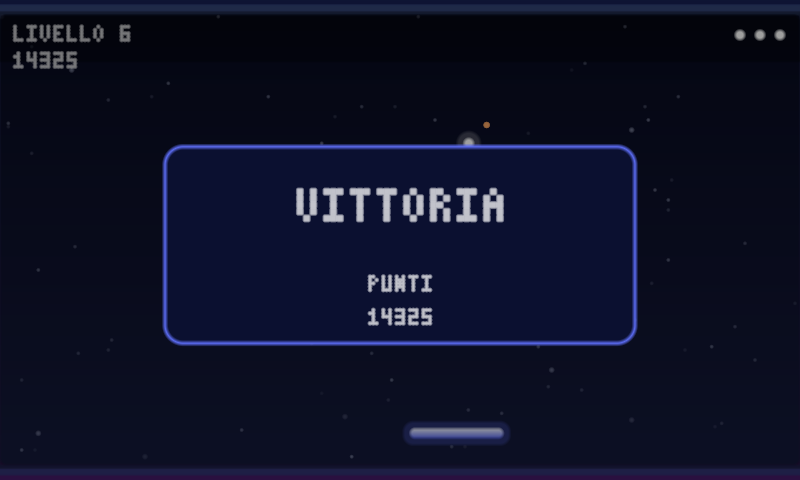
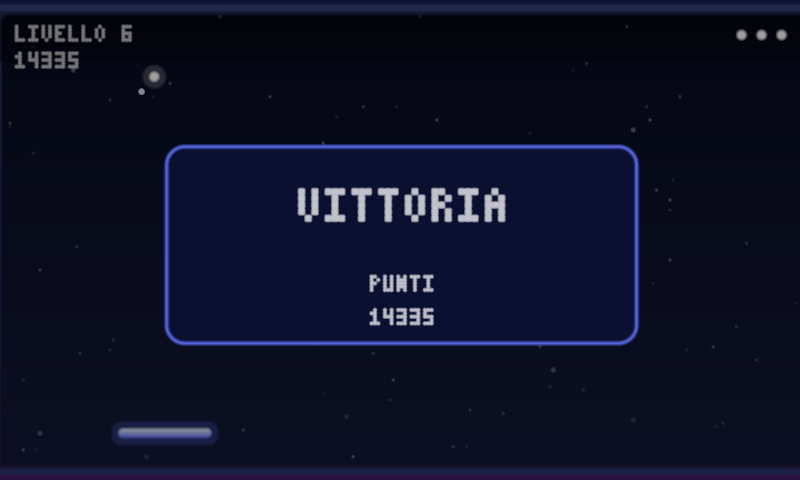
Wilkanoid v2: round 4 fixes
Level 4 gets a bomb in the steel core. First-level hint lists pause. DESIGN.md
reflects pause and the remaining work.

Claude-Session: https://claude.ai/code/session_01AVhvvKEf1rvKF1AvUztBjZ

diff --git a/games/wilkanoid/src/lib.rs b/games/wilkanoid/src/lib.rs
@@ -56,7 +56,7 @@ pub const LEVELS: [[&[u8; COLS]; ROWS]; 6] = [
     [b"111111111", b"111111111", b"111111111", b"121111121", b"111111111", b"111111111"],
     [b"000020000", b"000111000", b"001111100", b"011141110", b"111111111", b"101010101"],
     [b"222022022", b"111111111", b"202020202", b"111111111", b"222222222", b"010101010"],
-    [b"000020000", b"000222000", b"002212200", b"022222220", b"222222222", b"022222220"],
+    [b"000020000", b"000222000", b"002242200", b"022222220", b"222222222", b"022222220"],
     [b"111010111", b"011414110", b"110111011", b"111010111", b"011111110", b"111111111"],
     [b"222222222", b"212121212", b"222222222", b"141212141", b"222222222", b"010101010"],
 ];

diff --git a/games/wilkanoid/src/render.rs b/games/wilkanoid/src/render.rs
@@ -412,7 +412,7 @@ pub fn render(g: &Game, px: &mut [u32], w: usize, h: usize) {
         Phase::Ready => {
             c.text_c(b"PREMI SPAZIO", 96.0, 1.0, TXT);
             if g.level == 0 && g.score == 0 {
-                c.text_c(b"A D MUOVI", 106.0, 1.0, TXT);
+                c.text_c(b"A D MUOVI  P PAUSA", 106.0, 1.0, TXT);
             }
         }
         Phase::Lost => {

diff --git a/games/wilkanoid/DESIGN.md b/games/wilkanoid/DESIGN.md
@@ -8,7 +8,7 @@ Pilastri:
 
 Non è un clone: gli esplosivi cambiano il modo di pianificare i colpi.
 
-Stato: sei livelli, il bot li completa. Restano da fare: livello di tutorial, pausa, input su framebuffer.
+Stato: sei livelli, pausa (P), suggerimento di comandi al primo livello, il bot li completa. Restano da fare: tutorial completo, input su framebuffer (serve il backend della piattaforma).
 
 ## File
 - `src/lib.rs`: logica (fasi, racchetta, palle, mattoni, esplosivi, power-up, livelli, bot `autoplay`) e test.
